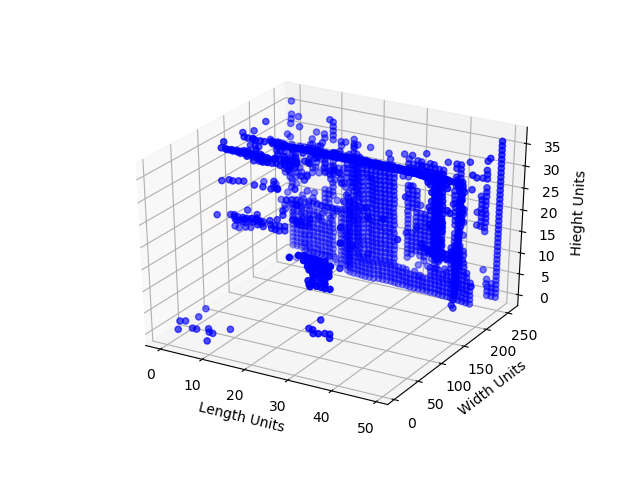
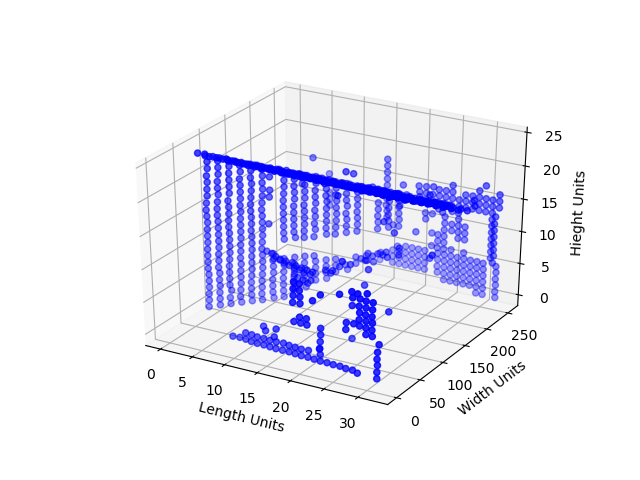
Point Cloud tunning

diff --git a/navigation/main.py b/navigation/main.py
@@ -52,7 +52,7 @@ map = mapDepth(unitSize,mapLength,mapWidth,mapHieght)
 #Set the Frame Size
 map.readFrameSize(kinectDepth.getFrame())
 
-for i in range (0,5):
+while 1:
     
     depthFrame = kinectDepth.getFrame()
     mappedDepth = map.mapFrame(depthFrame)

diff --git a/navigation/mapDepth.py b/navigation/mapDepth.py
@@ -47,7 +47,7 @@ class mapDepth:
 
     def mapFrame(self,frame):
 
-        factor = 10
+        factor = 15
         mapped_height = int(self.height/factor)
         mapped_width = int(self.width/factor)
         
